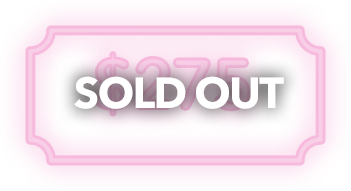
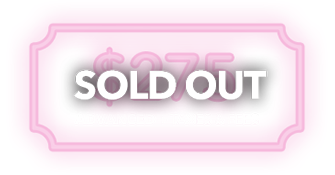
No form on homepage. 2 Buttons instead.

diff --git a/src/containers/public/ticket.js b/src/containers/public/ticket.js
@@ -14,6 +14,7 @@ import gaAdvanceSoldout  from '../../img/ga_advance_soldout.png'
 import gaAdvance         from '../../img/ga_advance.png'
 import gaEarlySoldout    from '../../img/ga_early_soldout.png'
 import gaRegular         from '../../img/ga_regular.png'
+import gaRegularSoldout   from '../../img/ga_regular_soldout.png'
 import vipAdvanceSoldout from '../../img/vip_advance_soldout.png'
 import vipAdvance        from '../../img/vip_advance.png'
 import vipEarlySoldout   from '../../img/vip_early_soldout.png'
@@ -352,9 +353,7 @@ class TicketPage extends React.Component {
                       </a>
                     </div>
                     <div className='row'>
-                      <a href='https://www.ticketfly.com/purchase/event/1318649' target='_blank'>
-                        <img src={`/assets/${gaRegular}`} />
-                      </a>
+                      <img src={`/assets/${gaRegularSoldout}`} />
                     </div>
                   </div>
                   <div className='large-4 small-7 column text-center'>

diff --git a/src/components/landing.js b/src/components/landing.js
@@ -32,7 +32,21 @@ const _renderFirstRow = item => (
               {item.title}
             </h1>
             <div dangerouslySetInnerHTML={createMarkup(item.description)} />
-            {<Form />}
+            <div className='row' style={{margin: '50px auto'}}>
+              <div className='small-up-2 neon-btns'>
+                <div className='column'>
+                  <div className='_button-wrapper'>
+                    <a className='btn' href='https://www.ticketfly.com/purchase/event/1318649?_ga=1.118752910.628319008.1490227557' target='_blank'>HOTEL + TIX</a>
+                  </div>
+                </div>
+                <div className='column'>
+                  <div className='_button-wrapper'>
+                    <Link className='btn' to='/ticket/'>VIP</Link>
+                  </div>
+                </div>
+              </div>
+            </div>
+            {/* {<Form />} */}
             {
             // <div>
             //   <a href='https://www.ticketfly.com/purchase/event/1318649' target='_blank' >
